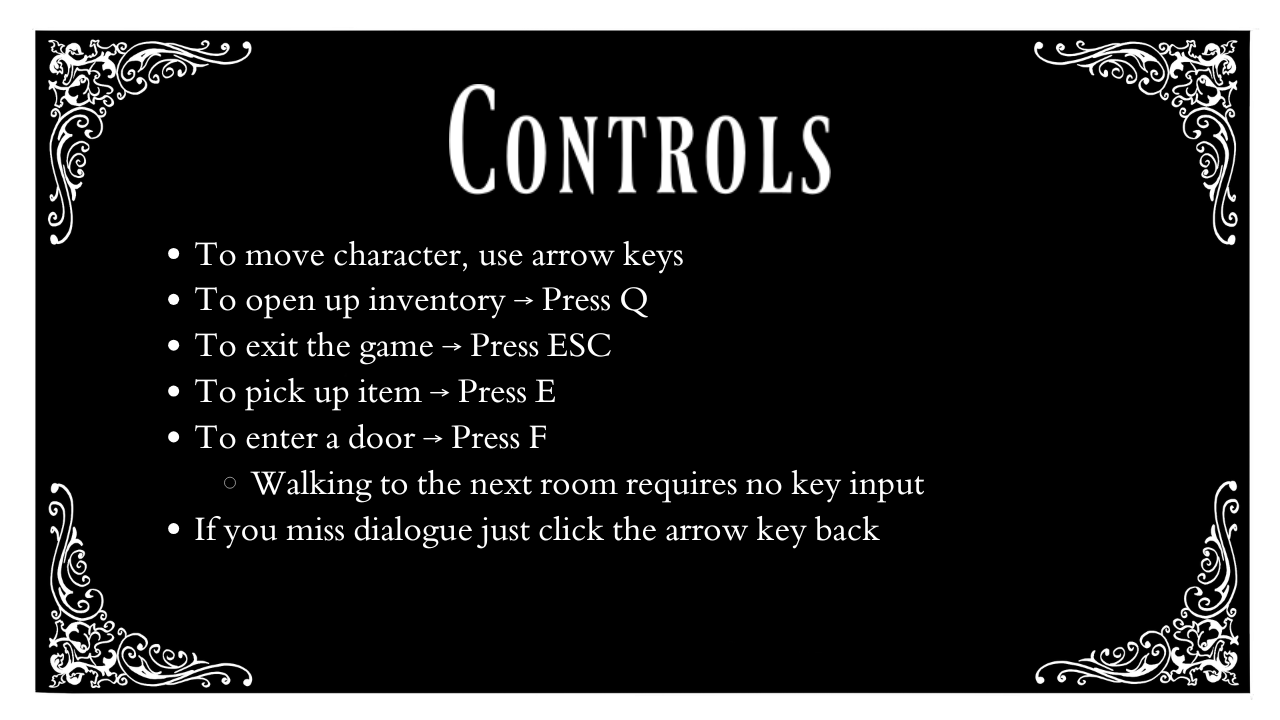
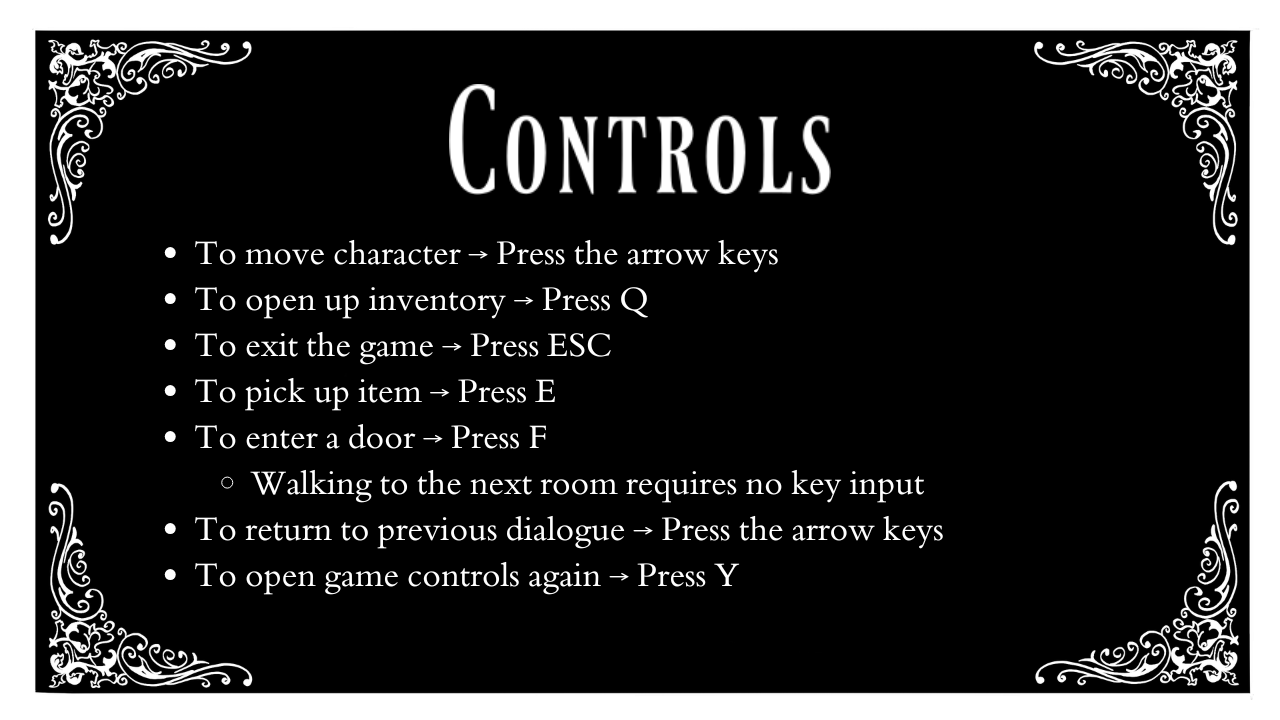
added the "y" command and updated warning screen transition

diff --git a/core/src/main/java/apcs/VilleFantome/GameScreen.java b/core/src/main/java/apcs/VilleFantome/GameScreen.java
@@ -21,28 +21,21 @@ public class GameScreen implements Screen {
     private Stage stage;
     private boolean inputSet = false;
     private Player player;
+    private boolean showControls = false;
 
-    // pause menu variables
     private enum State { RUNNING, PAUSED }
     private State state = State.RUNNING;
-    private Texture pauseBg;
-    private Texture resumeTex;
-    private Texture quitTex;
-    private ImageButton resumeButton;
-    private ImageButton quitButton;
+    private Texture pauseBg, resumeTex, quitTex;
+    private ImageButton resumeButton, quitButton;
 
-    // dialogue variables
     private Texture[] dialogueScreens;
-    private boolean[] dialogueHasSound; // Must match dialogueScreens length
+    private boolean[] dialogueHasSound;
     private int currentDialogueIndex = 0;
     private Sound typeSound;
     private float soundTimer = 0.0F;
     private boolean soundPlaying = false;
 
-    // world variables
     private Texture backgroundTexture;
-
-    // Fade variables
     private float fadeAlpha = 1.0f; 
     private float fadeSpeed = 3.5f; 
 
@@ -54,35 +47,26 @@ public class GameScreen implements Screen {
     public void show() {
         batch = new SpriteBatch();
         stage = new Stage(new FitViewport(1280, 720));
-
-        // Create the player using the Player class
         player = new Player(600, 20);
 
-        // dialogue assets (Total: 6 screens)
         dialogueScreens = new Texture[] {
-            new Texture("Narrator_box1.png"),      // 0
-            new Texture("Theo_Diary_Entry1.png"),   // 1
-            new Texture("Narrator_box2.png"),       // 2
-            new Texture("Theo_dialogue_2.png"),     // 3
-            new Texture("Theo_dialogue_1.png"),     // 4
-            new Texture("Game_controls.png")        // 5
+            new Texture("Narrator_box1.png"),      
+            new Texture("Theo_Diary_Entry1.png"),   
+            new Texture("Narrator_box2.png"),       
+            new Texture("Theo_dialogue_2.png"),     
+            new Texture("Theo_dialogue_1.png"),     
+            new Texture("Game_controls.png")        
         };
 
-        // sound logic (Must have 6 booleans)
-        dialogueHasSound = new boolean[] { true, false, true, false, false, false };
-
+        dialogueHasSound = new boolean[] { true, false, true, true, true, false };
         typeSound = Gdx.audio.newSound(Gdx.files.internal("NarratorTypeSound.mp3"));
 
-        // Start initial sound if necessary
         if (dialogueHasSound[0]) {
             typeSound.play(1.0F);
             soundPlaying = true;
         }
 
-        // world assets
         backgroundTexture = new Texture("background1.png");
-
-        // pause menu assets
         pauseBg = new Texture("pause_screen.png");
         resumeTex = new Texture("resume_button.png");
         quitTex = new Texture("quitbutton.png");
@@ -93,10 +77,8 @@ public class GameScreen implements Screen {
         resumeButton.addListener(new ClickListener() {
             @Override
             public void clicked(InputEvent event, float x, float y) {
-                if (state == State.PAUSED) {
-                    state = State.RUNNING;
-                    typeSound.resume();
-                }
+                state = State.RUNNING;
+                typeSound.resume();
             }
         });
 
@@ -106,39 +88,31 @@ public class GameScreen implements Screen {
         quitButton.addListener(new ClickListener() {
             @Override
             public void clicked(InputEvent event, float x, float y) {
-                if (state == State.PAUSED) {
-                    game.setScreen(new LoadingScreen(game));
-                }
+                game.setScreen(new LoadingScreen(game));
             }
         });
 
         stage.addActor(resumeButton);
         stage.addActor(quitButton);
-        inputSet = false;
     }
 
     @Override
     public void render(float delta) {
-        // 1. Update Fade Logic
+        if (Gdx.input.isKeyJustPressed(Input.Keys.Y)) {
+            showControls = !showControls;
+        }
+
         if (fadeAlpha > 0) {
             fadeAlpha -= delta * fadeSpeed;
             if (fadeAlpha < 0) fadeAlpha = 0;
         }
 
-        // 2. ESCAPE/PAUSE
         if (Gdx.input.isKeyJustPressed(Input.Keys.ESCAPE)) {
-            if (state == State.RUNNING) {
-                state = State.PAUSED;
-                typeSound.pause();
-            } else {
-                state = State.RUNNING;
-                typeSound.resume();
-            }
+            state = (state == State.RUNNING) ? State.PAUSED : State.RUNNING;
+            if (state == State.PAUSED) typeSound.pause(); else typeSound.resume();
         }
 
-        if (state == State.RUNNING) {
-            updateGame(delta);
-        }
+        if (state == State.RUNNING) updateGame(delta);
 
         if (!inputSet) {
             Gdx.input.setInputProcessor(stage);
@@ -151,29 +125,23 @@ public class GameScreen implements Screen {
         batch.setProjectionMatrix(stage.getCamera().combined);
         batch.begin();
 
-        // LAYER 1: The Town (Shows after Game_controls at Index 5 is done)
         if (currentDialogueIndex >= 6) { 
             batch.draw(backgroundTexture, 0, 0, 1280, 720);
             player.draw(batch); 
         }
 
-        // LAYER 2: Dialogue Overlay
-        if (currentDialogueIndex < dialogueScreens.length) {
+        if (showControls) {
+            batch.draw(dialogueScreens[5], 0, 0, 1280, 720); 
+        } else if (currentDialogueIndex < dialogueScreens.length) {
             batch.draw(dialogueScreens[currentDialogueIndex], 0, 0, 1280, 720);
         }
 
-        // LAYER 3: Menus
-        if (state == State.PAUSED) {
-            batch.draw(pauseBg, 0, 0, 1280, 720);
-        }
-
-        // LAYER 4: Fade
+        if (state == State.PAUSED) batch.draw(pauseBg, 0, 0, 1280, 720);
         if (fadeAlpha > 0) {
             batch.setColor(0, 0, 0, fadeAlpha); 
             batch.draw(pauseBg, 0, 0, 1280, 720); 
             batch.setColor(1, 1, 1, 1); 
         }
-
         batch.end();
 
         if (state == State.PAUSED) {
@@ -183,89 +151,47 @@ public class GameScreen implements Screen {
     }
 
     private void updateGame(float delta) {
-    // 1. SOUND TIMER LOGIC
-    if (soundPlaying) {
-        soundTimer += delta;
-        if (soundTimer >= 4.0F) { 
-            typeSound.stop(); 
-            soundPlaying = false; 
-        }
-    }
+        if (showControls) return;
 
-    // 2. DIALOGUE CONTROLS (Only runs if we haven't finished the intro)
-    if (currentDialogueIndex < dialogueScreens.length) {
-        
-        // --- GO FORWARD (Right Arrow or Click) ---
-        if (Gdx.input.isKeyJustPressed(Input.Keys.RIGHT) || Gdx.input.justTouched()) {
-            advanceDialogue();
+        if (soundPlaying) {
+            soundTimer += delta;
+            if (soundTimer >= 4.0F) { typeSound.stop(); soundPlaying = false; }
         }
-        
-        // --- GO BACKWARD (Left Arrow) ---
-        else if (Gdx.input.isKeyJustPressed(Input.Keys.LEFT)) {
-            if (currentDialogueIndex > 0) {
+
+        if (currentDialogueIndex < dialogueScreens.length) {
+            if (Gdx.input.justTouched() || Gdx.input.isKeyJustPressed(Input.Keys.RIGHT)) {
+                currentDialogueIndex++;
+                resetDialogueEffects();
+            } else if (Gdx.input.isKeyJustPressed(Input.Keys.LEFT) && currentDialogueIndex > 0) {
                 currentDialogueIndex--;
                 resetDialogueEffects();
             }
+        } else {
+            player.update(delta);
         }
     }
 
-    // 3. MOVEMENT LOGIC (Only runs when ALL dialogue is finished)
-    else { 
-        player.update(delta);
-    }
-}
-
-/** * Helper method to handle moving forward and resetting sounds/fades
- */
-private void advanceDialogue() {
-    currentDialogueIndex++; 
-    resetDialogueEffects();
-}
-
-/**
- * Resets the fade and sound whenever we change screens
- */
-private void resetDialogueEffects() {
-    fadeAlpha = 1.0f;
-    typeSound.stop();
-    soundTimer = 0.0F;
-
-    // Check if the NEW index should play sound
-    if (currentDialogueIndex < dialogueHasSound.length && dialogueHasSound[currentDialogueIndex]) {
-        typeSound.play(1.0F);
-        soundPlaying = true;
-    } else {
-        soundPlaying = false; 
-    }
-}
-
-    @Override
-    public void resize(int width, int height) {
-        stage.getViewport().update(width, height, true);
+    private void resetDialogueEffects() {
+        fadeAlpha = 1.0f;
+        typeSound.stop();
+        soundTimer = 0.0F;
+        if (currentDialogueIndex < dialogueHasSound.length && dialogueHasSound[currentDialogueIndex]) {
+            typeSound.play(1.0F);
+            soundPlaying = true;
+        } else {
+            soundPlaying = false;
+        }
     }
 
-    @Override
-    public void hide() {
-        Gdx.input.setInputProcessor(null);
-        inputSet = false;
-    }
-
+    @Override public void resize(int w, int h) { stage.getViewport().update(w, h, true); }
+    @Override public void hide() { Gdx.input.setInputProcessor(null); inputSet = false; }
     @Override public void pause() {}
     @Override public void resume() {}
-
-    @Override
-    public void dispose() {
-        batch.dispose();
-        stage.dispose();
-        backgroundTexture.dispose();
-        pauseBg.dispose();
-        typeSound.dispose();
-        resumeTex.dispose();
-        quitTex.dispose();
-        
-        for (Texture t : dialogueScreens) {
-            if (t != null) t.dispose();
-        }
-        player.dispose(); // Important: dispose textures inside Player class too
+    @Override public void dispose() {
+        batch.dispose(); stage.dispose(); backgroundTexture.dispose();
+        typeSound.dispose(); pauseBg.dispose();
+        resumeTex.dispose(); quitTex.dispose();
+        for (Texture t : dialogueScreens) t.dispose();
+        player.dispose();
     }
 }

diff --git a/core/src/main/java/apcs/VilleFantome/WarningScreen.java b/core/src/main/java/apcs/VilleFantome/WarningScreen.java
@@ -14,8 +14,14 @@ public class WarningScreen implements Screen {
     private Main game;
     private SpriteBatch batch;
     private Texture warningTexture;
+    private Texture blackTexture; 
     private Stage stage;
     private boolean inputSet = false;
+    private boolean showControls = false;
+
+    private float fadeAlpha = 0.0f; 
+    private float fadeSpeed = 2.5f; 
+    private boolean isExiting = false; 
 
     public WarningScreen(Main game) {
         this.game = game;
@@ -25,22 +31,26 @@ public class WarningScreen implements Screen {
     public void show() {
         batch = new SpriteBatch();
         warningTexture = new Texture("warningscreen.png");
-
+        blackTexture = new Texture("pause_screen.png"); 
         stage = new Stage(new FitViewport(1280, 720));
 
-        // Click anywhere on the screen to continue
         stage.addListener(new ClickListener() {
             @Override
             public void clicked(InputEvent event, float x, float y) {
-                game.setScreen(new GameScreen(game));
+                isExiting = true; 
             }
         });
-
-        inputSet = false;
     }
 
     @Override
     public void render(float delta) {
+        if (isExiting) {
+            fadeAlpha += delta * fadeSpeed; 
+            if (fadeAlpha >= 1.0f) {
+                game.setScreen(new GameScreen(game)); 
+            }
+        }
+
         Gdx.gl.glClearColor(0, 0, 0, 1);
         Gdx.gl.glClear(GL20.GL_COLOR_BUFFER_BIT);
 
@@ -52,6 +62,11 @@ public class WarningScreen implements Screen {
         batch.setProjectionMatrix(stage.getCamera().combined);
         batch.begin();
         batch.draw(warningTexture, 0, 0, 1280, 720);
+        if (fadeAlpha > 0) {
+            batch.setColor(0, 0, 0, fadeAlpha); 
+            batch.draw(blackTexture, 0, 0, 1280, 720);
+            batch.setColor(1, 1, 1, 1); 
+        }
         batch.end();
 
         stage.act(delta);
@@ -64,13 +79,6 @@ public class WarningScreen implements Screen {
     }
 
     @Override
-    public void dispose() {
-        batch.dispose();
-        warningTexture.dispose();
-        stage.dispose();
-    }
-
-    @Override
     public void hide() {
         Gdx.input.setInputProcessor(null);
         inputSet = false;
@@ -78,4 +86,12 @@ public class WarningScreen implements Screen {
 
     @Override public void pause() {}
     @Override public void resume() {}
+
+    @Override
+    public void dispose() {
+        if (batch != null) batch.dispose();
+        if (warningTexture != null) warningTexture.dispose();
+        if (blackTexture != null) blackTexture.dispose();
+        if (stage != null) stage.dispose();
+    }
 }
